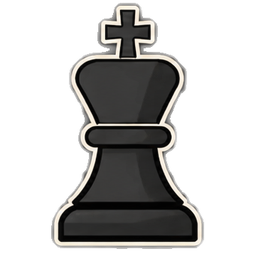
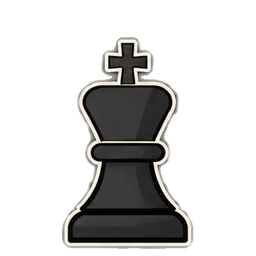
Kings resized to fit inside their square (no more cross poking into the square above)
Claude-Session: https://claude.ai/code/session_01GrAMtJTngoRoo4wWg1kne8

Changed region(s): [[0.1875, 0.0, 0.8125, 0.9688]]

diff --git a/chess.html b/chess.html
@@ -9,7 +9,7 @@
 <link rel="stylesheet" href="https://fonts.googleapis.com/css2?family=Bricolage+Grotesque:wght@500;700&family=IBM+Plex+Sans:wght@400;500;600&family=IBM+Plex+Mono:wght@500&display=swap">
 <script src="https://cdnjs.cloudflare.com/ajax/libs/chess.js/0.10.3/chess.min.js"></script>
 <link rel="stylesheet" href="chess-lab/vendor/chessground.base.css">
-<link rel="stylesheet" href="chess-lab/pieces.css?v=3">
+<link rel="stylesheet" href="chess-lab/pieces.css?v=4">
 <script src="chess-lab/vendor/chessground.iife.js"></script>
 <style>
 /* Layout: one narrow column. Home = theme checklist for today; Drill = board + controls. */
@@ -1250,7 +1250,7 @@ function finishedPuzzle(theme, id){
 let theme, game, sol, step, color, mistakes, helped, finished, selected=null, lastMove=null, cur=null, queue=null, hintSq=null;
 const GLYPH = {k:"♚",q:"♛",r:"♜",b:"♝",n:"♞",p:"♟"};
 // piece set: chess-lab/pieces/*.png (same files as chess-lab/pieces.css)
-const PIECES = Object.fromEntries(['w','b'].flatMap(c => [...'kqrbnp'].map(p => [c+p, `chess-lab/pieces/${c}${p}.png?v=2`])));
+const PIECES = Object.fromEntries(['w','b'].flatMap(c => [...'kqrbnp'].map(p => [c+p, `chess-lab/pieces/${c}${p}.png?v=${p==="k"?3:2}`])));
 
 let returnView = "home";   // where "back" goes after a puzzle set
 function show(view){

diff --git a/chess-lab/pieces.css b/chess-lab/pieces.css
@@ -1,11 +1,11 @@
 /* Piece set from Dede's image (cream and black, bold outlines), cut into one PNG per piece in pieces/. Used by every board on the site. */
-.cg-wrap piece.king.white { background-image: url("pieces/wk.png?v=2"); }
+.cg-wrap piece.king.white { background-image: url("pieces/wk.png?v=3"); }
 .cg-wrap piece.queen.white { background-image: url("pieces/wq.png?v=2"); }
 .cg-wrap piece.rook.white { background-image: url("pieces/wr.png?v=2"); }
 .cg-wrap piece.bishop.white { background-image: url("pieces/wb.png?v=2"); }
 .cg-wrap piece.knight.white { background-image: url("pieces/wn.png?v=2"); }
 .cg-wrap piece.pawn.white { background-image: url("pieces/wp.png?v=2"); }
-.cg-wrap piece.king.black { background-image: url("pieces/bk.png?v=2"); }
+.cg-wrap piece.king.black { background-image: url("pieces/bk.png?v=3"); }
 .cg-wrap piece.queen.black { background-image: url("pieces/bq.png?v=2"); }
 .cg-wrap piece.rook.black { background-image: url("pieces/br.png?v=2"); }
 .cg-wrap piece.bishop.black { background-image: url("pieces/bb.png?v=2"); }

diff --git a/chess-lab/index.html b/chess-lab/index.html
@@ -7,7 +7,7 @@
   <title>Chess Lab · Spar &amp; Review</title>
   <link rel="icon" href="data:,">
   <link rel="stylesheet" href="vendor/chessground.base.css">
-  <link rel="stylesheet" href="pieces.css?v=3">
+  <link rel="stylesheet" href="pieces.css?v=4">
   <link rel="stylesheet" href="app.css?v=3e5f9568">
 </head>
 <body>
